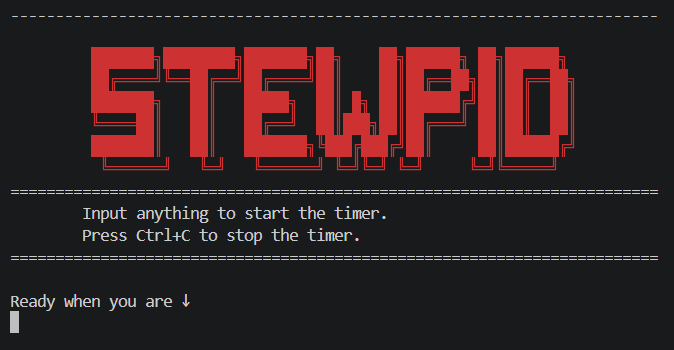
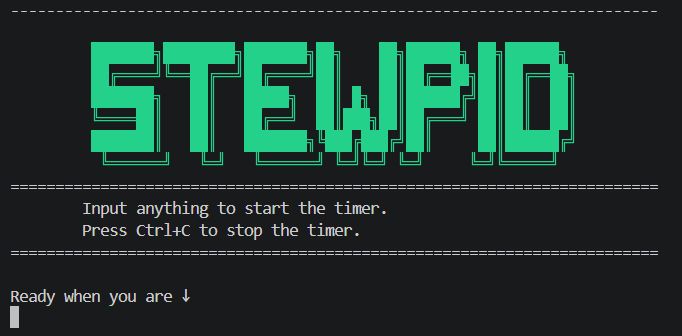
initial

diff --git a/main.py b/main.py
@@ -8,6 +8,7 @@ import time, os, sys, textwrap
 
 # Global Vars
 hr, min, sec = 0, 0, 0
+time_stopped = (hr, min, sec)
 ascii_art = textwrap.dedent('''
     ███████╗████████╗███████╗██╗    ██╗██████╗ ██╗██████╗
     ██╔════╝╚══██╔══╝██╔════╝██║    ██║██╔══██╗██║██╔══██╗
@@ -33,7 +34,7 @@ def renderUI():
 
     print("------------------------------------------------------------------------")
     for line in ascii_art.splitlines(): # ascii art centered
-        print("\033[31m" + line.center(72) + "\033[0m")
+        print("\033[92m" + line.center(72) + "\033[0m")
     print("========================================================================")
     print("\tInput anything to start the timer.")
     print("\tPress Ctrl+C to stop the timer.")
@@ -67,8 +68,14 @@ def renderUI():
 
     except KeyboardInterrupt:
         stopwatch.isRunning = False
+        os.system('cls' if os.name == 'nt' else 'clear')
+        print("------------------------------------------------------------------------")
+        print("\033[92mTimer Stopped // python3 main.py to restart\033[0m")
+        print("------------------------------------------------------------------------")
+        for line in ascii_art.splitlines(): # ascii art centered
+            print("\033[31m" + line.center(72) + "\033[0m")
         print("========================================================================")
-        print("Timer Stopped".center(72))
+        print(formatted_time.center(72))
         print("========================================================================")
         sys.exit()
 
